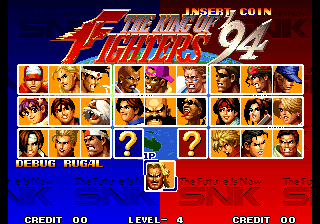
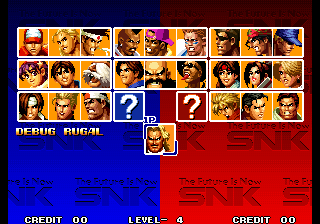
v1.1.3

diff --git a/src/components/IndexPage/IndexPage.tsx b/src/components/IndexPage/IndexPage.tsx
@@ -247,7 +247,7 @@ function IndexPage() {
         </div>
         <div className="mb-16">
           <Hr />
-          <h3 className="heading text-lg font-bold pb-4">Version 1.1.2</h3>
+          <h3 className="heading text-lg font-bold pb-4">Version 1.1.3</h3>
           <p>
             A cleaner and better looking character select screen. The globe and
             logo were removed, it now looks more like KOF95.
